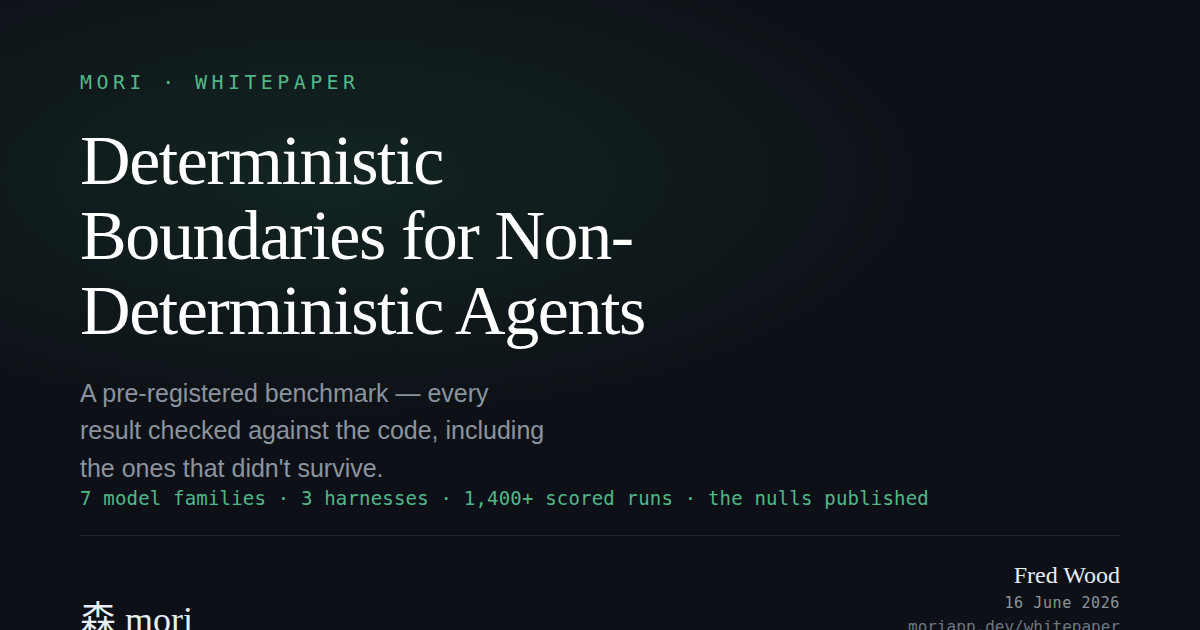
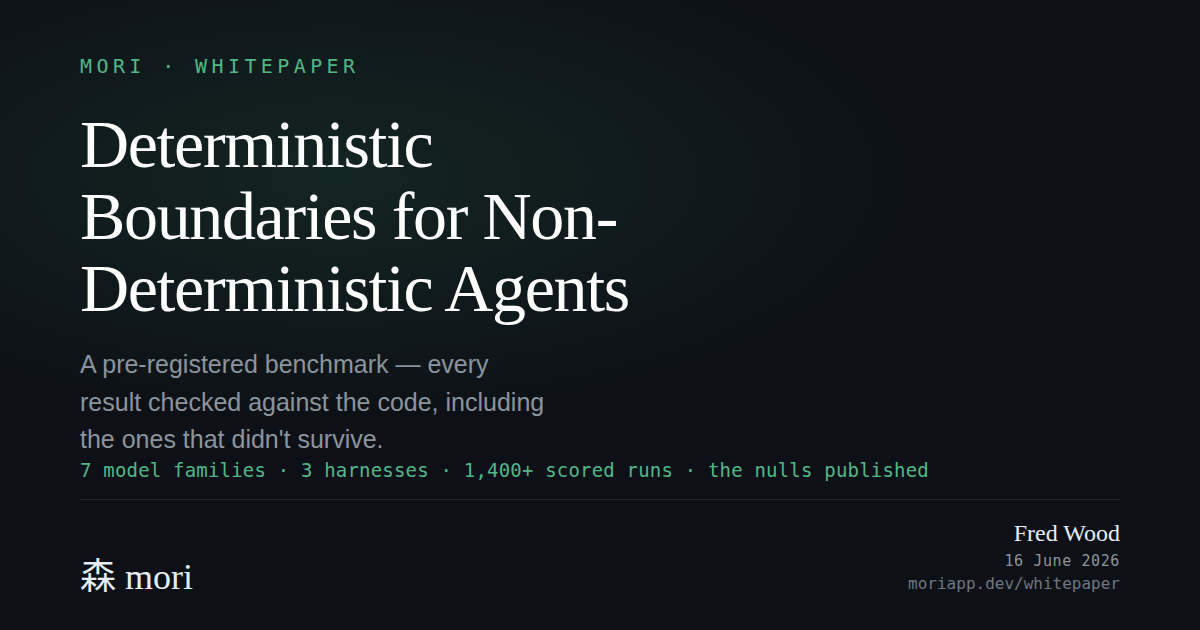
social card: tighten vertical spacing so footer credit fits inside 630px

diff --git a/card.html b/card.html
@@ -4,15 +4,15 @@
 *{margin:0;padding:0;box-sizing:border-box;}
 html,body{width:1200px;height:630px;}
 body{background:#0d1117;color:#e6edf3;font-family:'DM Sans',sans-serif;font-weight:300;
-  display:flex;flex-direction:column;justify-content:space-between;padding:70px 80px;position:relative;overflow:hidden;}
+  display:flex;flex-direction:column;justify-content:space-between;padding:54px 80px;position:relative;overflow:hidden;}
 body::before{content:'';position:absolute;inset:0;background:radial-gradient(ellipse 70% 55% at 28% 28%,rgba(27,67,50,.40),transparent 70%);}
 .top{position:relative;}
 .k{font-family:'JetBrains Mono',monospace;font-size:20px;letter-spacing:.22em;color:#52b788;text-transform:uppercase;margin-bottom:30px;}
-h1{font-family:'Fraunces',Georgia,serif;font-weight:300;font-size:70px;line-height:1.07;letter-spacing:-.02em;color:#fff;margin-bottom:26px;max-width:17ch;}
+h1{font-family:'Fraunces',Georgia,serif;font-weight:300;font-size:68px;line-height:1.06;letter-spacing:-.02em;color:#fff;margin-bottom:22px;max-width:17ch;}
 .sub{font-size:25px;color:#8b949e;max-width:34ch;line-height:1.5;}
 .bot{position:relative;}
-.stats{font-family:'JetBrains Mono',monospace;font-size:19px;color:#52b788;letter-spacing:.01em;margin-bottom:26px;}
-.foot{display:flex;justify-content:space-between;align-items:flex-end;border-top:1px solid #21262d;padding-top:24px;}
+.stats{font-family:'JetBrains Mono',monospace;font-size:19px;color:#52b788;letter-spacing:.01em;margin-bottom:18px;}
+.foot{display:flex;justify-content:space-between;align-items:flex-end;border-top:1px solid #21262d;padding-top:18px;}
 .brand{font-family:'Fraunces',serif;font-size:36px;color:#e6edf3;line-height:1;}
 .url{font-family:'JetBrains Mono',monospace;font-size:18px;color:#6e7681;}
 .byline{text-align:right;line-height:1.3;}
